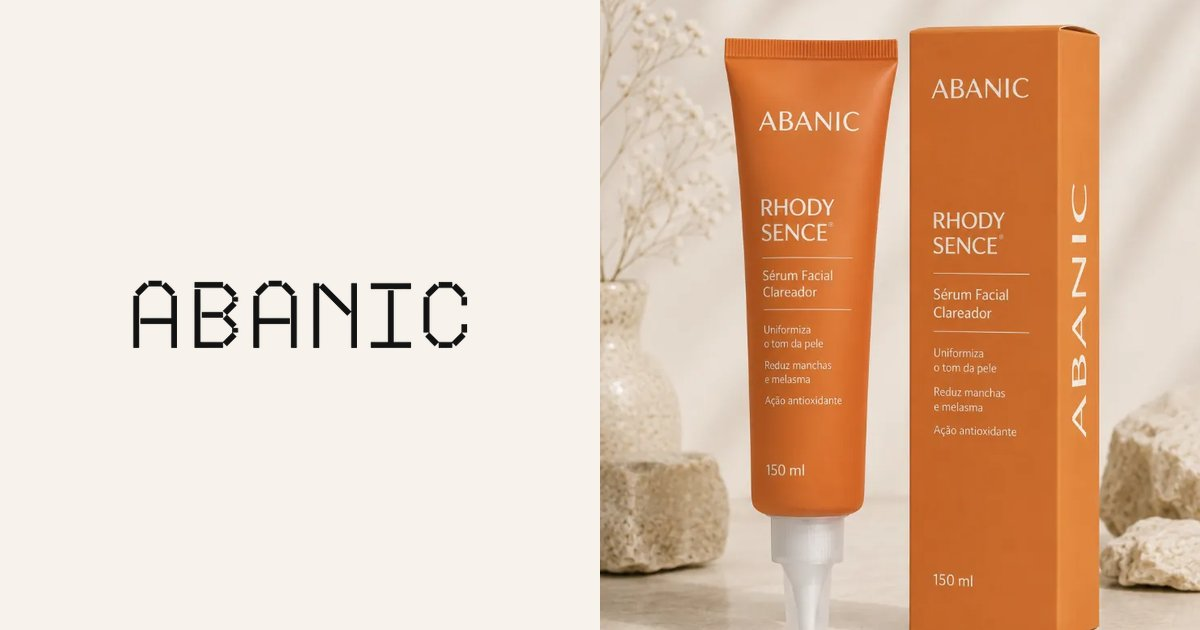
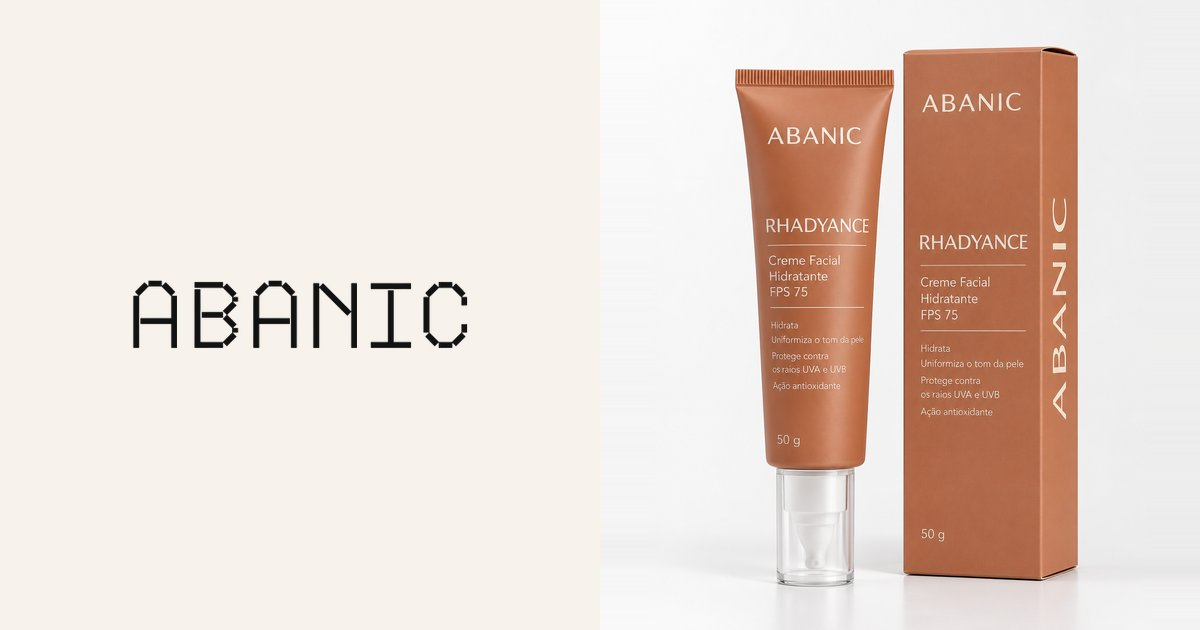
fix(produtos): fotos novas das embalagens RHADYANCE
- Gel, sérum e creme com as embalagens atuais (a página do creme mostrava a
  bisnaga do sérum e todas usavam o nome antigo RHODY SENCE)
- creme-fps50.webp renomeado para creme-fps75.webp
- Imagens de compartilhamento (og) dos 3 produtos refeitas com as fotos novas

diff --git a/src/data/productsData.js b/src/data/productsData.js
@@ -1,6 +1,6 @@
 import GelImage from "../assets/products/gel-limpeza.webp";
 import SerumImage from "../assets/products/serum-clareador.webp";
-import CremeImage from "../assets/products/creme-fps50.webp";
+import CremeImage from "../assets/products/creme-fps75.webp";
 // Placas de Petri no modelo novo (fundo creme #F7F3EC).
 import AlgasVermelhasPetri from "../assets/products/ativos/novas/algas-vermelhas-petri.webp";
 import MargaridaPetri from "../assets/products/ativos/novas/margarida-petri.webp";
